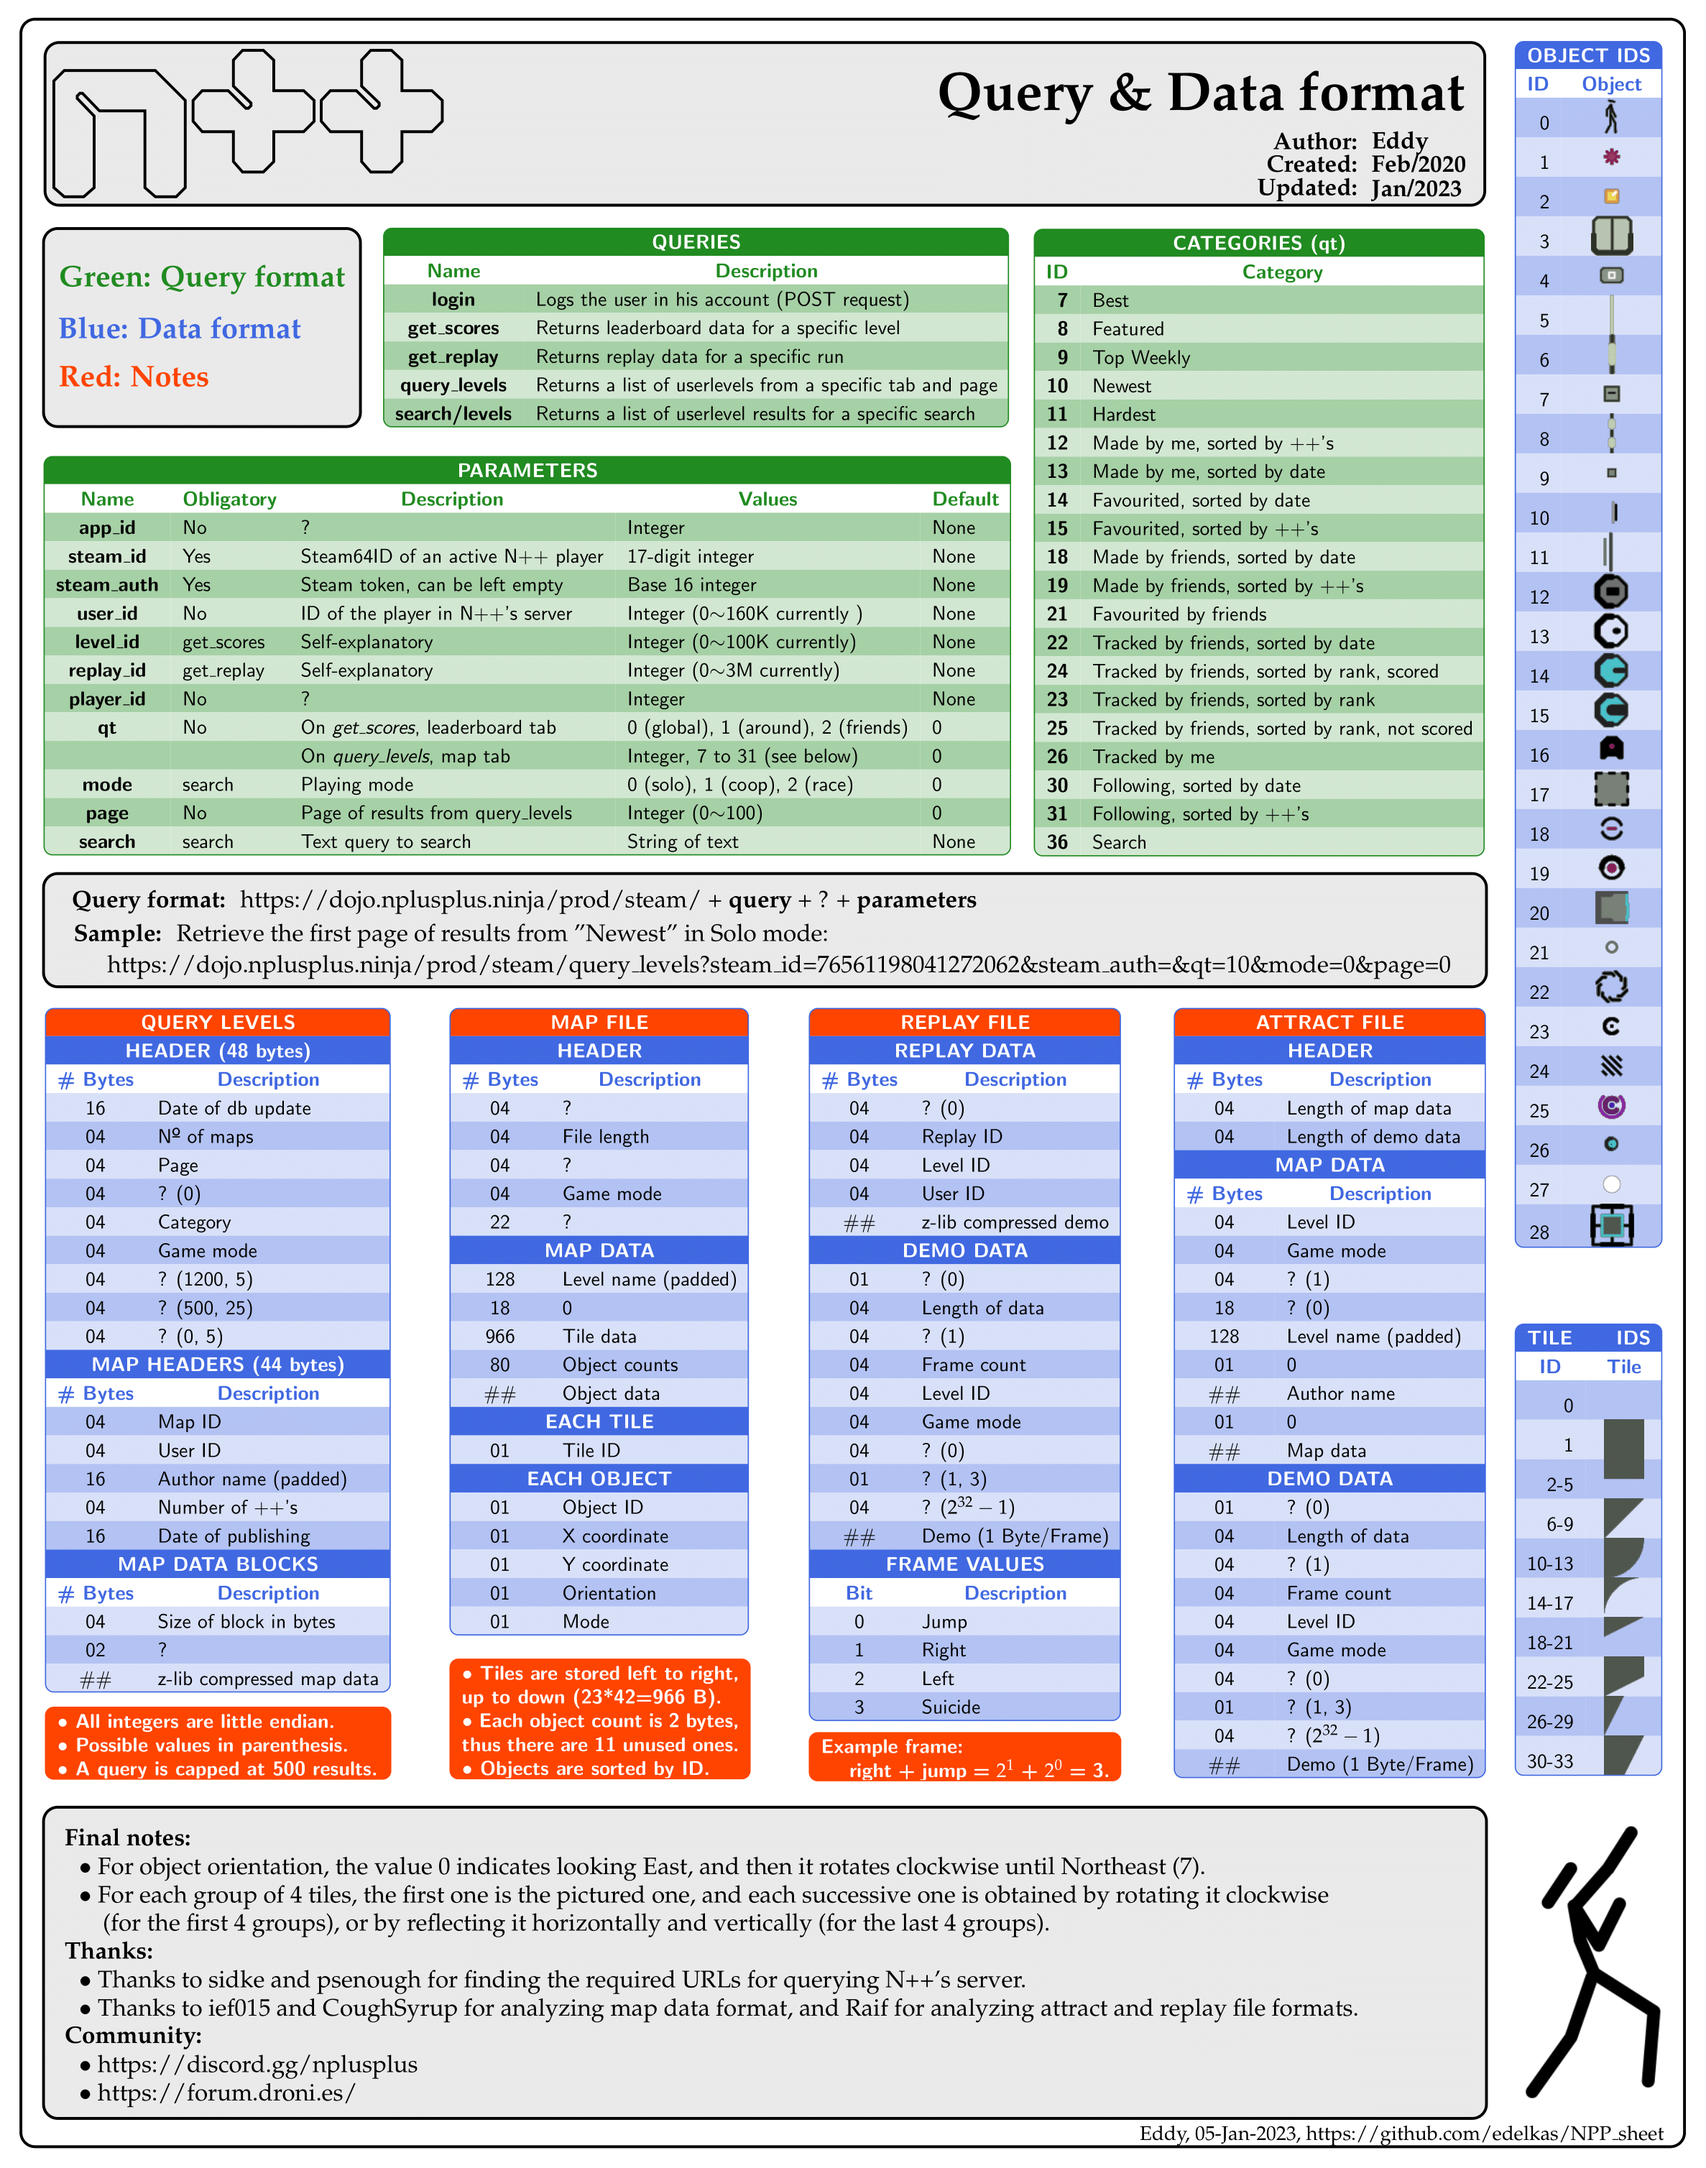
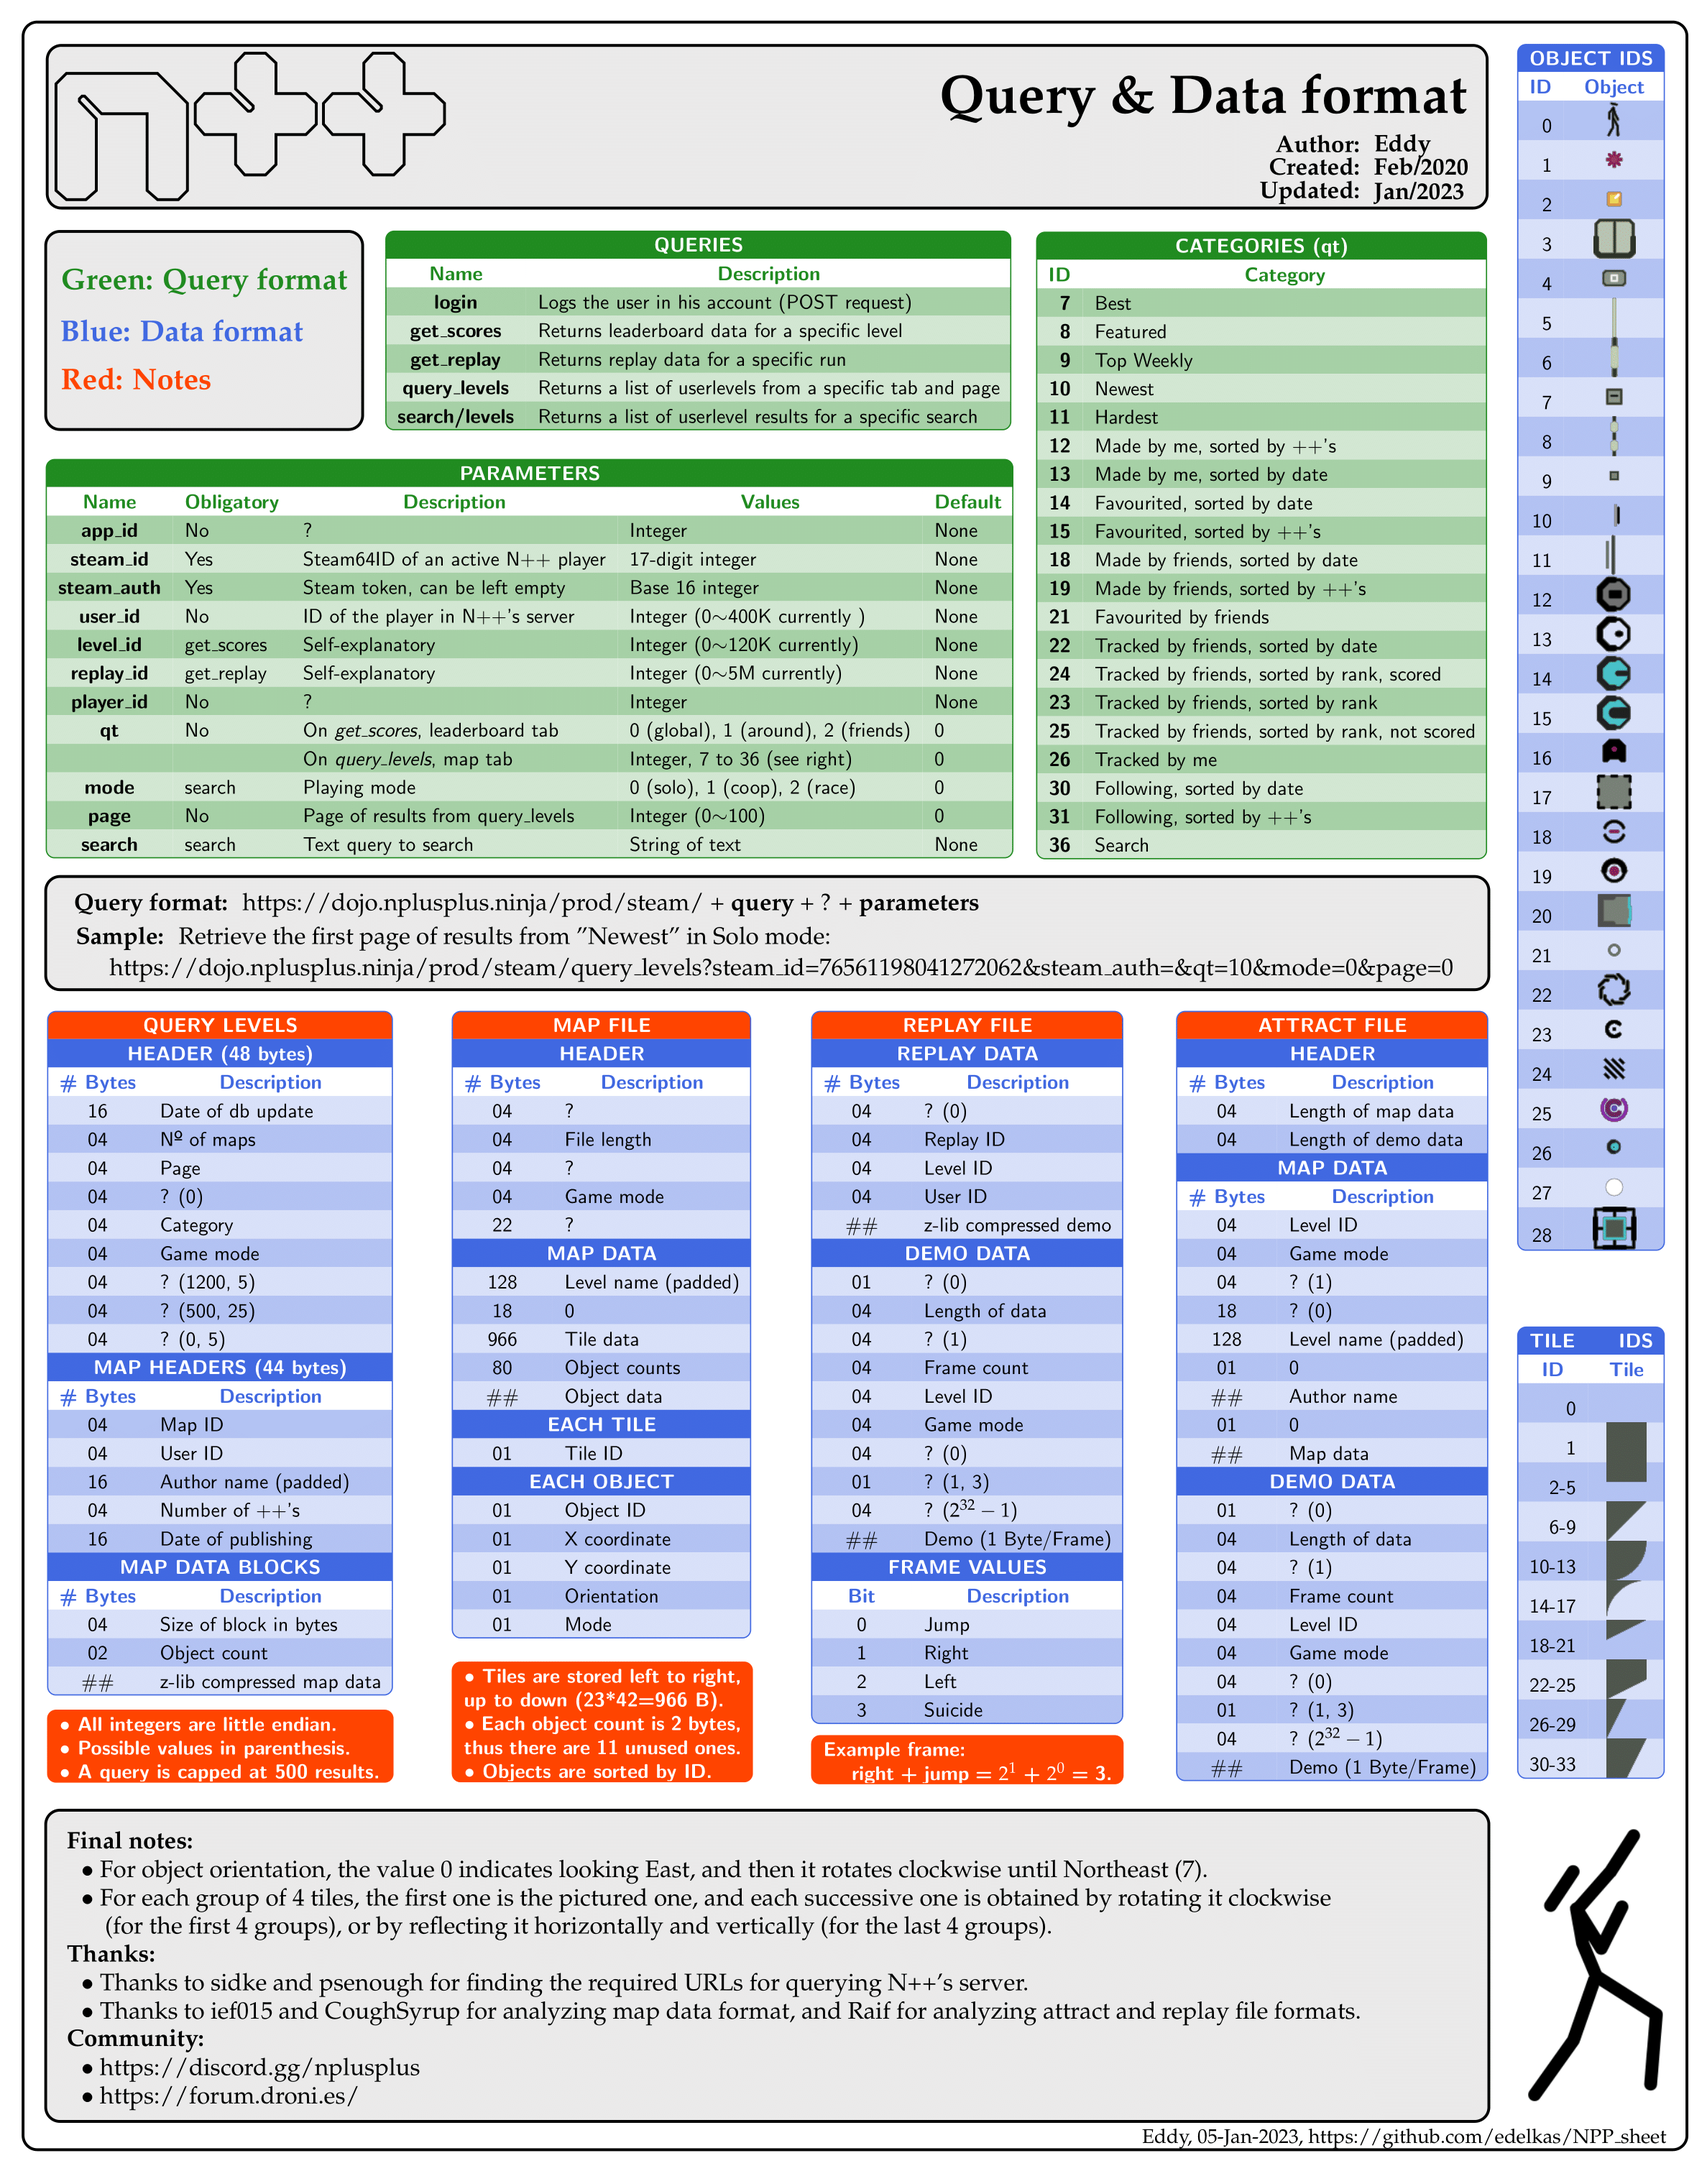
new info for query format

diff --git a/table.tex b/table.tex
@@ -69,12 +69,12 @@
           \textbf{app\_id} & No & ? & Integer & None\\
           \textbf{steam\_id} & Yes & Steam64ID of an active N++ player & 17-digit integer & None\\
           \textbf{steam\_auth} & Yes & Steam token, can be left empty & Base 16 integer & None\\
-          \textbf{user\_id} & No & ID of the player in N++'s server & Integer (0$\sim$160K currently ) & None\\
-          \textbf{level\_id} & get\_scores & Self-explanatory & Integer (0$\sim$100K currently) & None\\
-          \textbf{replay\_id} & get\_replay & Self-explanatory & Integer (0$\sim$3M currently) & None\\
+          \textbf{user\_id} & No & ID of the player in N++'s server & Integer (0$\sim$400K currently ) & None\\
+          \textbf{level\_id} & get\_scores & Self-explanatory & Integer (0$\sim$120K currently) & None\\
+          \textbf{replay\_id} & get\_replay & Self-explanatory & Integer (0$\sim$5M currently) & None\\
           \textbf{player\_id} & No & ? & Integer & None\\
           \textbf{qt} & No & On \textit{get\_scores}, leaderboard tab & 0 (global), 1 (around), 2 (friends) & 0\\
-          && On \textit{query\_levels}, map tab & Integer, 7 to 31 (see below) & 0\\
+          && On \textit{query\_levels}, map tab & Integer, 7 to 36 (see right) & 0\\
           \textbf{mode} & search & Playing mode & 0 (solo), 1 (coop), 2 (race) & 0\\
           \textbf{page} & No & Page of results from query\_levels & Integer (0$\sim$100) & 0\\
           \textbf{search} & search & Text query to search & String of text & None\\
@@ -138,7 +138,7 @@
         \tit{MAP DATA BLOCKS}{2}\\
         \header{\# Bytes} & \header{Description}\\
         04 & Size of block in bytes\\
-        02 & ?\\
+        02 & Object count\\
         \#\# & z-lib compressed map data\\
         \end{tabla}
       \end{minipage}
